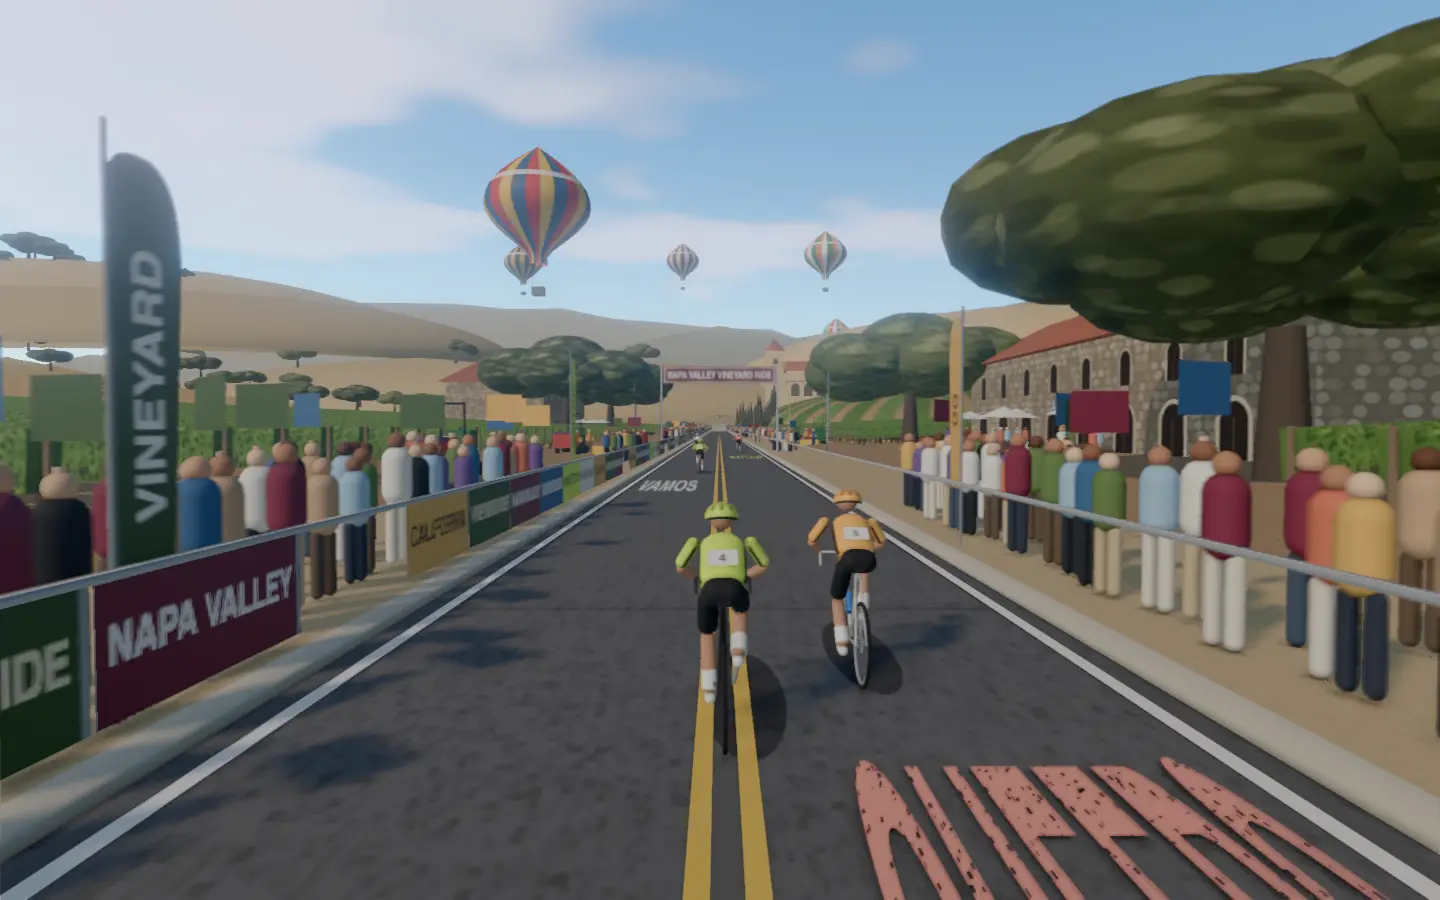
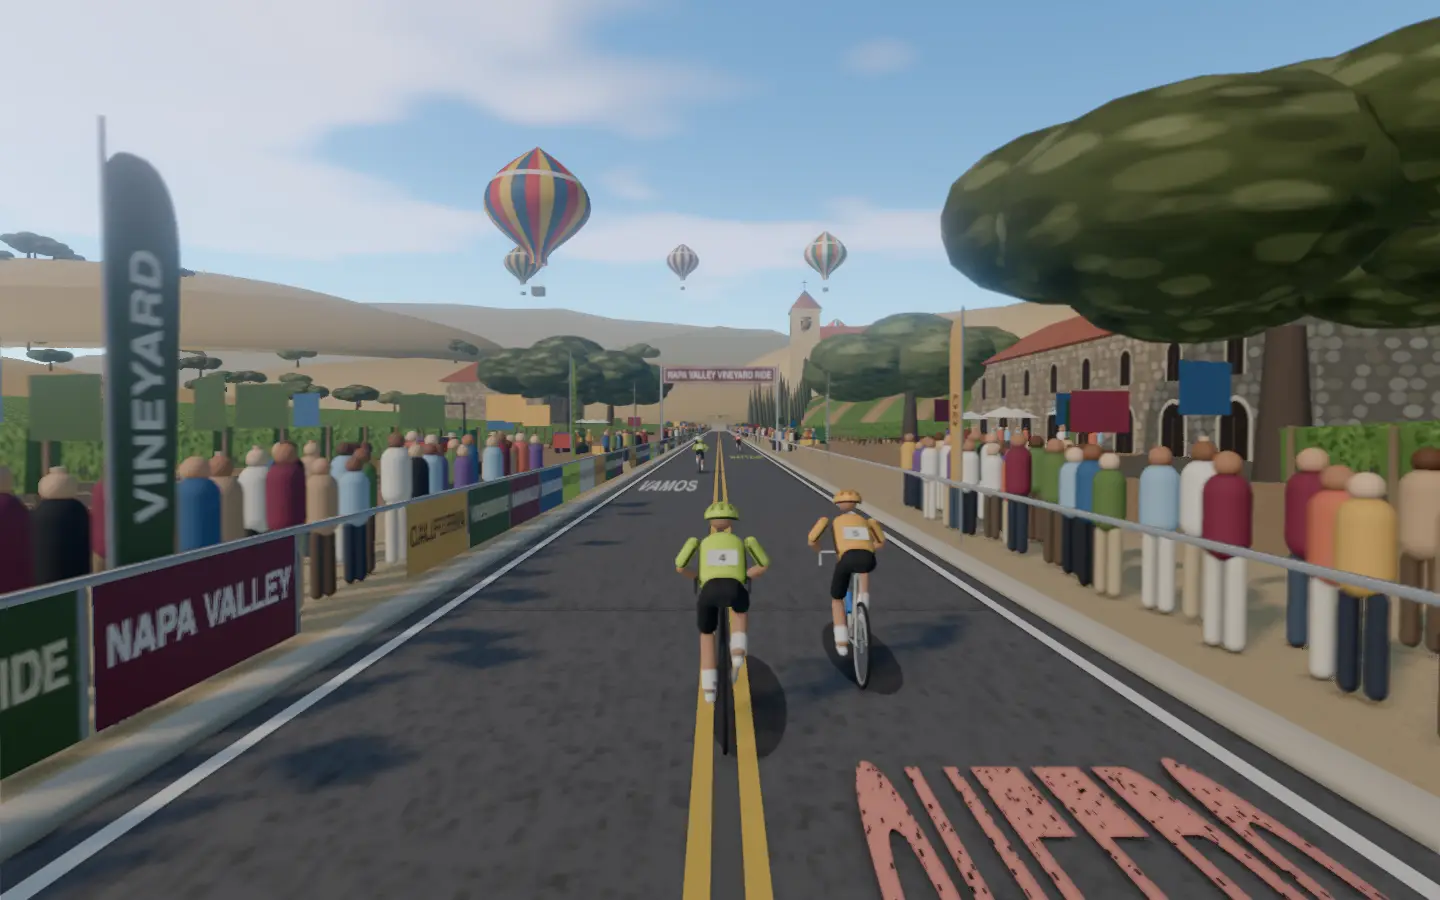
Bring Napa's mission winery and its bell tower nearer

Changed region(s): [[0.5, 0.3111, 0.6562, 0.4978], [0.0625, 0.6844, 0.125, 0.7467], [0.125, 0.6533, 0.1875, 0.6844]]

diff --git a/frontend/projects/wattzup/src/app/core/world-napa.ts b/frontend/projects/wattzup/src/app/core/world-napa.ts
@@ -68,6 +68,9 @@ const BLOCK = 25;
 const ROW_EVERY = 2.5;
 /** The mission winery's knoll, its hills and the ridges beyond stand this far ahead. */
 const HORIZON_AHEAD = 300;
+/** The knoll and its mission winery stand nearer; the vines and oaks on the right stop short of it. */
+const MISSION_AT = 190;
+const KNOLL_FOOT = MISSION_AT - 65;
 const HAZE = 0xe4d6b8;
 
 /**
@@ -257,7 +260,7 @@ export class NapaStreet implements SceneStreet {
     const ground = (metres: number) => heightAt(Math.max(metres, 0));
     for (const prop of this.props) {
       const metres = along(prop.offset, prop.every);
-      prop.mesh.visible = !prop.near || metres < HORIZON_AHEAD - 20;
+      prop.mesh.visible = !prop.near || metres < KNOLL_FOOT;
       prop.mesh.position.set(prop.x, ground(metres) + KERB + prop.rise, -metres);
     }
     this.crowd.place(this.time, heightAt, along, KERB);
@@ -919,7 +922,11 @@ export class NapaStreet implements SceneStreet {
    */
   private addHorizon(): void {
     const haze = new Color(HAZE);
-    const h = this.horizon;
+    const far = this.horizon;
+    // The knoll and the mission stand nearer than the hills and the ridges.
+    const h = new Group();
+    h.position.z = HORIZON_AHEAD - MISSION_AT;
+    far.add(h);
     // The knoll, its vine rows in stripes across it.
     const knoll = new SphereGeometry(1, 40, 20, 0, Math.PI * 2, 0, Math.PI / 2);
     this.disposables.push(knoll);
@@ -1057,7 +1064,8 @@ export class NapaStreet implements SceneStreet {
       tree.position.set(x, Math.max(top(x, z), 0) - 0.5, z);
       h.add(tree);
     }
-    // The golden hills either side, rounded, and the Mayacamas' blue ridges beyond.
+    // The golden hills either side, rounded, and the Mayacamas' blue ridges beyond, at the
+    // horizon's distance.
     const hill = new SphereGeometry(1, 28, 14, 0, Math.PI * 2, 0, Math.PI / 2);
     this.disposables.push(hill);
     const golds = [0xc9a456, 0xb8954c, 0xd2ae62].map((c, i) =>
@@ -1070,7 +1078,7 @@ export class NapaStreet implements SceneStreet {
       const m = new Mesh(hill, golds[i % 3]!);
       m.scale.set(150 + hr() * 160, 40 + hr() * 50, 120 + hr() * 80);
       m.position.set(x, rise(x) - 6, -250 - hr() * 300);
-      h.add(m);
+      far.add(m);
       for (let j = 0; j < 6; j++) {
         const ox = (hr() - 0.5) * m.scale.x;
         const oz = (hr() - 0.5) * m.scale.z * 0.5 + m.scale.z * 0.4;
@@ -1078,7 +1086,7 @@ export class NapaStreet implements SceneStreet {
         if (f <= 0) continue;
         const tree = this.oak(18 + hr() * 8, i + j);
         tree.position.set(x + ox, m.position.y + m.scale.y * Math.sqrt(f) - 2, m.position.z + oz);
-        h.add(tree);
+        far.add(tree);
       }
     }
     const ridges = [
@@ -1099,7 +1107,7 @@ export class NapaStreet implements SceneStreet {
       this.disposables.push(g);
       const m = new Mesh(g, hazedMaterial(this.disposables, haze, ridge.colour, ridge.amount));
       m.position.z = ridge.z;
-      h.add(m);
+      far.add(m);
     }
   }
 

diff --git a/docs/class-worlds.md b/docs/class-worlds.md
@@ -31,7 +31,7 @@ Every class in `frontend/public/classes.json`, with its World Ride scene. Render
 | 25 | 15 Minute HIIT Cardio | Serpentine, Hyde Park | 80% | Rowing boats and white swans glide on the Serpentine as the lakeside road runs west through Hyde Park past the boathouse and the striped deckchairs under the plane trees toward the five stone arches of the Serpentine Bridge. The two-minute warm-up rolls past the boathouse, the three-minute tempo blocks sweep along the lake under the planes, and each thirty-second sprint races for the bridge's arches. |
 | 26 | Quick HIIT Workout | Notting Hill Carnival | 72% | Sound systems throbbing on Ladbroke Grove; push through costumed mas bands on carnival Monday. |
 | 27 | Instant Inferno | Kīlauea Lava Road (concept) |  | Hawaiian lava fields and glowing steam vents; each effort climbs toward the crater rim. |
-| 28 | Easy Riding | Napa Vineyards | 72% | Rows of vines climb the golden hills either side of the valley road on a warm Californian afternoon, past oak-shaded stone wineries and their tasting terraces toward a mission-style winery with a bell tower on a knoll ahead. The three-minute warm-up rolls between the vine rows, the short vineyard rises climb past the stone wineries under the oaks, and the two-minute pushes ride on toward the bell tower. |
+| 28 | Easy Riding | Napa Vineyards | 75% | Rows of vines climb the golden hills either side of the valley road on a warm Californian afternoon, past oak-shaded stone wineries and their tasting terraces toward a mission-style winery with a bell tower on a knoll ahead. The three-minute warm-up rolls between the vine rows, the short vineyard rises climb past the stone wineries under the oaks, and the two-minute pushes ride on toward the bell tower. |
 | 29 | Quick HIIT Sprint Workout | Las Vegas Strip | 70% | Neon casinos and dancing fountains after midnight; sprint from light to light down the boulevard. |
 | 30 | Super High Cadence Sprints | Shibuya Crossing (concept) |  | Tokyo in neon rain; spin fast through the scramble beneath towering video screens. |
 | 31 | Elevate Your Climbing Power | Alpe d'Huez (concept) |  | Twenty-one hairpins above the valley, painted names on the tarmac and fans at every bend. |

diff --git a/docs/detailed-designs/world-ride/draw-class-scene/README.md b/docs/detailed-designs/world-ride/draw-class-scene/README.md
@@ -320,7 +320,7 @@ None.
   - the harvest: crews of pickers in straw sun hats (the kit's `Figures`) stooping and straightening in the gaps between the rows with yellow lug boxes of grapes at their feet, two more carrying full lugs along the headland, a narrow green vineyard tractor on the headland hauling a red gondola heaped with dark grapes, and full lugs stacked at the row ends;
   - guests standing in twos and threes round the terrace tables (the kit's `Figures`);
   - five hot-air balloons over the valley, the nearest 190 m ahead, teardrop envelopes in bright striped gores with a wicker basket on its ropes under each, drifting slowly up the valley and rising and sinking a little;
-  - 300 m ahead, to the right of the road, a knoll striped with vines and on it the mission-style winery: a cream stucco hall under red tiles with an arcade of nine arches along its front, its bell tower with an open belfry, a bronze bell and a tiled pyramid roof under a cross, cypresses lining the drive up from the road and oaks round its foot; rounded golden hills either side and two blue ridges of the Mayacamas beyond, all hazed by hand. Vines, oaks and wineries on the right are hidden near the knoll so none stands in front of it.
+  - 190 m ahead, to the right of the road, a knoll striped with vines and on it the mission-style winery: a cream stucco hall under red tiles with an arcade of nine arches along its front, its bell tower with an open belfry, a bronze bell and a tiled pyramid roof under a cross, cypresses lining the drive up from the road and oaks round its foot; 300 m ahead and further, rounded golden hills either side and two blue ridges of the Mayacamas beyond, all hazed by hand. Vines, oaks and wineries on the right are hidden from 125 m, the knoll's foot, so none stands in front of it.
 
   `lay`, `place` and `setTime` recycle it along a 500 m loop.
 - **Glastonbury Fields (`core/world-glastonbury.ts`).** For `glastonbury`, Worthy Farm in festival week:
